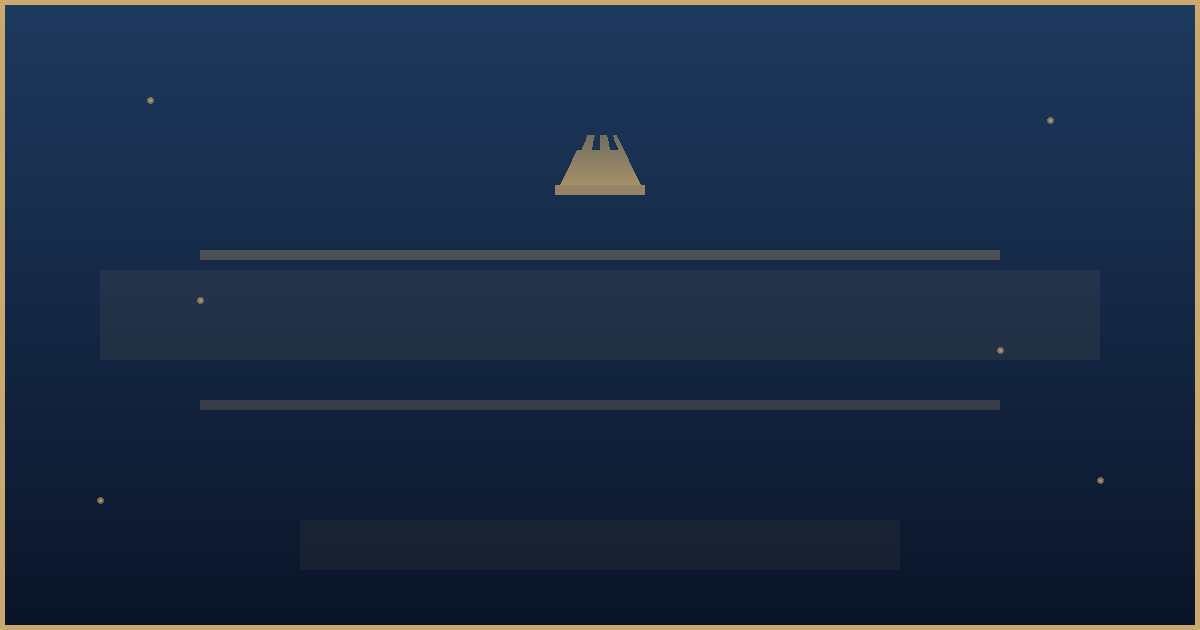
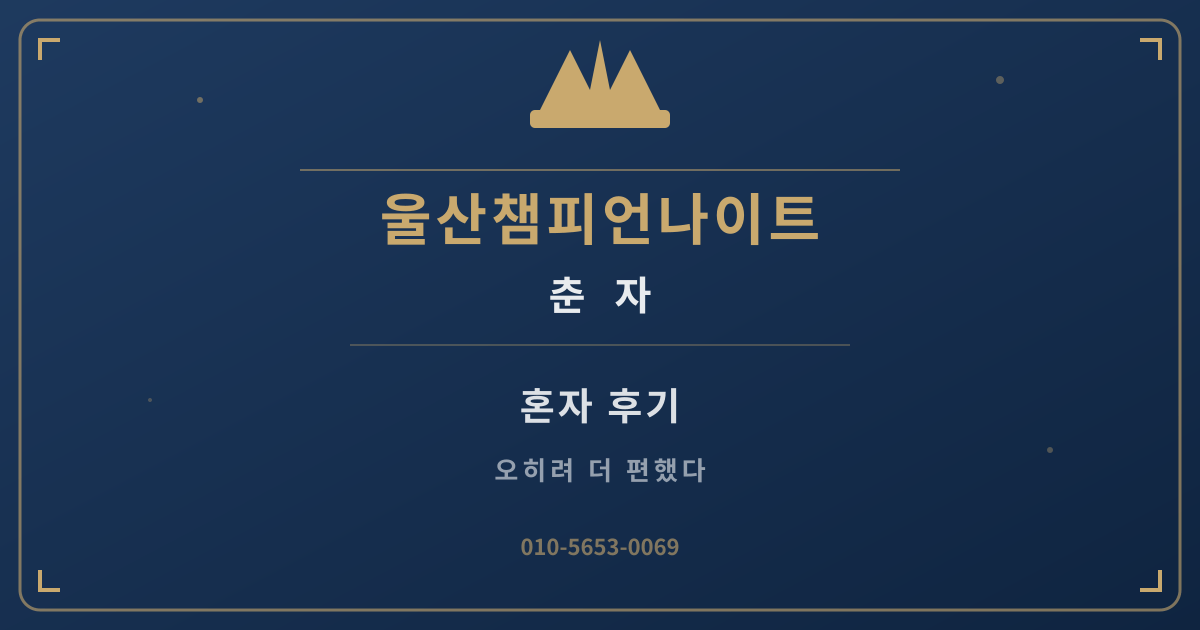
네이버 썸네일 강화: 울산챔피언나이트 춘자 OG 이미지 + 메타태그 전면 추가
- OG 이미지 11개 새로 생성 (1200x630, 한글 텍스트 선명)
- og:image:width/height/type/alt 추가 (네이버 필수)
- twitter:card summary_large_image + twitter:image 추가
- og:site_name, og:locale, link rel=image_src 추가
- JSON-LD image를 ImageObject로 확장
- sitemap에 이미지 사이트맵 추가 + lastmod 갱신

Changed region(s): [[0.0, 0.0, 1.0, 1.0], [0.3083, 0.5429, 0.7092, 0.573]]

diff --git a/index.html b/index.html
@@ -8,14 +8,25 @@
 <meta property="og:title" content="울산챔피언나이트 후기 — 겁나서 못 가겠다고? 읽고 판단해">
 <meta property="og:description" content="직접 가본 놈들만 썼다. 첫 방문, 혼자, 커플, 40대 후기까지 10편. 읽고 니가 판단해.">
 <meta property="og:image" content="https://ulsan2.pages.dev/og-images/main.png">
+<meta property="og:image:width" content="1200">
+<meta property="og:image:height" content="630">
+<meta property="og:image:type" content="image/png">
+<meta property="og:image:alt" content="울산챔피언나이트 춘자 - 울산 대표 나이트클럽">
 <meta property="og:type" content="website">
 <meta property="og:url" content="https://ulsan2.pages.dev/">
+<meta property="og:site_name" content="울산챔피언나이트 춘자">
+<meta property="og:locale" content="ko_KR">
+<meta name="twitter:card" content="summary_large_image">
+<meta name="twitter:title" content="울산챔피언나이트 춘자 — 겁나서 못 가겠다고? 읽고 판단해">
+<meta name="twitter:description" content="직접 가본 놈들만 썼다. 첫 방문, 혼자, 커플, 40대 후기까지 10편. 읽고 니가 판단해.">
+<meta name="twitter:image" content="https://ulsan2.pages.dev/og-images/main.png">
 <link rel="canonical" href="https://ulsan2.pages.dev/">
+<link rel="image_src" href="https://ulsan2.pages.dev/og-images/main.png">
 <meta name="naver-site-verification" content="9cfec1c56761bf02cd39fa5e2de5cb58af4b5cfc" />
 <meta name="google-site-verification" content="HJjm7MRxykCQ7d_9L7glaTeeaWrmJIzAKY0BcNcfm88" />
 <link rel="icon" href="/favicon.svg" type="image/svg+xml">
 <script type="application/ld+json">
-{"@context":"https://schema.org","@type":"NightClub","name":"울산챔피언나이트","description":"직접 가본 놈들만 썼다. 첫 방문, 혼자, 커플, 40대 후기까지 10편. 읽고 니가 판단해.","url":"https://ulsan2.pages.dev","telephone":"010-5653-0069","address":{"@type":"PostalAddress","addressLocality":"울산","addressRegion":"울산광역시","addressCountry":"KR"},"image":"https://ulsan2.pages.dev/og-images/main.png","sameAs":["https://bamkey.com"]}
+{"@context":"https://schema.org","@type":"NightClub","name":"울산챔피언나이트 춘자","alternateName":"울산챔피언나이트","description":"직접 가본 놈들만 썼다. 첫 방문, 혼자, 커플, 40대 후기까지 10편. 읽고 니가 판단해.","url":"https://ulsan2.pages.dev","telephone":"010-5653-0069","address":{"@type":"PostalAddress","addressLocality":"울산","addressRegion":"울산광역시","addressCountry":"KR"},"image":{"@type":"ImageObject","url":"https://ulsan2.pages.dev/og-images/main.png","width":1200,"height":630,"caption":"울산챔피언나이트 춘자 - 울산 대표 나이트클럽"},"sameAs":["https://bamkey.com"]}
 </script>
 <style>
 *{margin:0;padding:0;box-sizing:border-box}

diff --git a/blog/weekend/index.html b/blog/weekend/index.html
@@ -8,9 +8,20 @@
 <meta property="og:title" content="울산챔피언나이트 금토 비교 — 같은 곳인데 분위기가 왜 다르냐면">
 <meta property="og:description" content="금요일은 하이볼 마시며 녹는 분위기. 토요일은 땀 흘리며 미치는 밤. 둘 다 가봤으니까 비교한다.">
 <meta property="og:image" content="https://ulsan2.pages.dev/og-images/weekend.png">
+<meta property="og:image:width" content="1200">
+<meta property="og:image:height" content="630">
+<meta property="og:image:type" content="image/png">
+<meta property="og:image:alt" content="울산챔피언나이트 춘자 - weekend 후기">
 <meta property="og:type" content="article">
 <meta property="og:url" content="https://ulsan2.pages.dev/blog/weekend/">
+<meta property="og:site_name" content="울산챔피언나이트 춘자">
+<meta property="og:locale" content="ko_KR">
+<meta name="twitter:card" content="summary_large_image">
+<meta name="twitter:title" content="울산챔피언나이트 금토 비교 — 같은 곳인데 분위기가 왜 다르냐면">
+<meta name="twitter:description" content="금요일은 하이볼 마시며 녹는 분위기. 토요일은 땀 흘리며 미치는 밤. 둘 다 가봤으니까 비교한다.">
+<meta name="twitter:image" content="https://ulsan2.pages.dev/og-images/weekend.png">
 <link rel="canonical" href="https://ulsan2.pages.dev/blog/weekend/">
+<link rel="image_src" href="https://ulsan2.pages.dev/og-images/weekend.png">
 <meta name="naver-site-verification" content="naver-verification-code">
 <meta name="google-site-verification" content="HJjm7MRxykCQ7d_9L7glaTeeaWrmJIzAKY0BcNcfm88" />
 <link rel="icon" href="/favicon.svg" type="image/svg+xml">

diff --git a/blog/first-time/index.html b/blog/first-time/index.html
@@ -8,9 +8,20 @@
 <meta property="og:title" content="울산챔피언나이트 첫 방문 후기 — 문 열고 3초 만에 알았다">
 <meta property="og:description" content="긴장 반 기대 반. 나올 때 &quot;다음 주에 또 오자&quot;고 했다. 처음이라 겁나면 이거 먼저 읽어.">
 <meta property="og:image" content="https://ulsan2.pages.dev/og-images/first-time.png">
+<meta property="og:image:width" content="1200">
+<meta property="og:image:height" content="630">
+<meta property="og:image:type" content="image/png">
+<meta property="og:image:alt" content="울산챔피언나이트 춘자 - first-time 후기">
 <meta property="og:type" content="article">
 <meta property="og:url" content="https://ulsan2.pages.dev/blog/first-time/">
+<meta property="og:site_name" content="울산챔피언나이트 춘자">
+<meta property="og:locale" content="ko_KR">
+<meta name="twitter:card" content="summary_large_image">
+<meta name="twitter:title" content="울산챔피언나이트 첫 방문 후기 — 문 열고 3초 만에 알았다">
+<meta name="twitter:description" content="긴장 반 기대 반. 나올 때 &quot;다음 주에 또 오자&quot;고 했다. 처음이라 겁나면 이거 먼저 읽어.">
+<meta name="twitter:image" content="https://ulsan2.pages.dev/og-images/first-time.png">
 <link rel="canonical" href="https://ulsan2.pages.dev/blog/first-time/">
+<link rel="image_src" href="https://ulsan2.pages.dev/og-images/first-time.png">
 <meta name="naver-site-verification" content="naver-verification-code">
 <meta name="google-site-verification" content="HJjm7MRxykCQ7d_9L7glaTeeaWrmJIzAKY0BcNcfm88" />
 <link rel="icon" href="/favicon.svg" type="image/svg+xml">

diff --git a/blog/summer/index.html b/blog/summer/index.html
@@ -8,9 +8,20 @@
 <meta property="og:title" content="여름밤 울산챔피언나이트 — 바다에서 댄스플로어까지 하루 코스">
 <meta property="og:description" content="낮에 바다, 저녁에 회, 밤에 댄스플로어. 에어컨 소름에 모히토 한 모금. 여름이라 가능한 코스.">
 <meta property="og:image" content="https://ulsan2.pages.dev/og-images/summer.png">
+<meta property="og:image:width" content="1200">
+<meta property="og:image:height" content="630">
+<meta property="og:image:type" content="image/png">
+<meta property="og:image:alt" content="울산챔피언나이트 춘자 - summer 후기">
 <meta property="og:type" content="article">
 <meta property="og:url" content="https://ulsan2.pages.dev/blog/summer/">
+<meta property="og:site_name" content="울산챔피언나이트 춘자">
+<meta property="og:locale" content="ko_KR">
+<meta name="twitter:card" content="summary_large_image">
+<meta name="twitter:title" content="여름밤 울산챔피언나이트 — 바다에서 댄스플로어까지 하루 코스">
+<meta name="twitter:description" content="낮에 바다, 저녁에 회, 밤에 댄스플로어. 에어컨 소름에 모히토 한 모금. 여름이라 가능한 코스.">
+<meta name="twitter:image" content="https://ulsan2.pages.dev/og-images/summer.png">
 <link rel="canonical" href="https://ulsan2.pages.dev/blog/summer/">
+<link rel="image_src" href="https://ulsan2.pages.dev/og-images/summer.png">
 <meta name="naver-site-verification" content="naver-verification-code">
 <meta name="google-site-verification" content="HJjm7MRxykCQ7d_9L7glaTeeaWrmJIzAKY0BcNcfm88" />
 <link rel="icon" href="/favicon.svg" type="image/svg+xml">

diff --git a/blog/couple/index.html b/blog/couple/index.html
@@ -8,9 +8,20 @@
 <meta property="og:title" content="여자친구랑 울산챔피언나이트 — &quot;또 가자&quot;고 했다">
 <meta property="og:description" content="&quot;거기 가자&quot; 했을 때 여친 3초 침묵. 근데 나와서는 &quot;역대급 데이트&quot;라고 했다.">
 <meta property="og:image" content="https://ulsan2.pages.dev/og-images/couple.png">
+<meta property="og:image:width" content="1200">
+<meta property="og:image:height" content="630">
+<meta property="og:image:type" content="image/png">
+<meta property="og:image:alt" content="울산챔피언나이트 춘자 - couple 후기">
 <meta property="og:type" content="article">
 <meta property="og:url" content="https://ulsan2.pages.dev/blog/couple/">
+<meta property="og:site_name" content="울산챔피언나이트 춘자">
+<meta property="og:locale" content="ko_KR">
+<meta name="twitter:card" content="summary_large_image">
+<meta name="twitter:title" content="여자친구랑 울산챔피언나이트 — &quot;또 가자&quot;고 했다">
+<meta name="twitter:description" content="&quot;거기 가자&quot; 했을 때 여친 3초 침묵. 근데 나와서는 &quot;역대급 데이트&quot;라고 했다.">
+<meta name="twitter:image" content="https://ulsan2.pages.dev/og-images/couple.png">
 <link rel="canonical" href="https://ulsan2.pages.dev/blog/couple/">
+<link rel="image_src" href="https://ulsan2.pages.dev/og-images/couple.png">
 <meta name="naver-site-verification" content="naver-verification-code">
 <meta name="google-site-verification" content="HJjm7MRxykCQ7d_9L7glaTeeaWrmJIzAKY0BcNcfm88" />
 <link rel="icon" href="/favicon.svg" type="image/svg+xml">

diff --git a/blog/event/index.html b/blog/event/index.html
@@ -8,9 +8,20 @@
 <meta property="og:title" content="울산챔피언나이트 이벤트 날 — 조명 꺼지고 5초 후 소름">
 <meta property="og:description" content="자주 가는 나도 입 벌어졌다. 레드카펫, 게스트 DJ, 천장에서 풍선 비. 서울 안 부러웠다.">
 <meta property="og:image" content="https://ulsan2.pages.dev/og-images/event.png">
+<meta property="og:image:width" content="1200">
+<meta property="og:image:height" content="630">
+<meta property="og:image:type" content="image/png">
+<meta property="og:image:alt" content="울산챔피언나이트 춘자 - event 후기">
 <meta property="og:type" content="article">
 <meta property="og:url" content="https://ulsan2.pages.dev/blog/event/">
+<meta property="og:site_name" content="울산챔피언나이트 춘자">
+<meta property="og:locale" content="ko_KR">
+<meta name="twitter:card" content="summary_large_image">
+<meta name="twitter:title" content="울산챔피언나이트 이벤트 날 — 조명 꺼지고 5초 후 소름">
+<meta name="twitter:description" content="자주 가는 나도 입 벌어졌다. 레드카펫, 게스트 DJ, 천장에서 풍선 비. 서울 안 부러웠다.">
+<meta name="twitter:image" content="https://ulsan2.pages.dev/og-images/event.png">
 <link rel="canonical" href="https://ulsan2.pages.dev/blog/event/">
+<link rel="image_src" href="https://ulsan2.pages.dev/og-images/event.png">
 <meta name="naver-site-verification" content="naver-verification-code">
 <meta name="google-site-verification" content="HJjm7MRxykCQ7d_9L7glaTeeaWrmJIzAKY0BcNcfm88" />
 <link rel="icon" href="/favicon.svg" type="image/svg+xml">

diff --git a/blog/food/index.html b/blog/food/index.html
@@ -8,9 +8,20 @@
 <meta property="og:title" content="울산챔피언나이트 맛집 코스 — 삼겹살에서 새벽 국밥까지">
 <meta property="og:description" content="빈속에 술 마시면 20분 리타이어. 고기로 코팅하고 놀고 새벽 국밥. 동선까지 다 짰다.">
 <meta property="og:image" content="https://ulsan2.pages.dev/og-images/food.png">
+<meta property="og:image:width" content="1200">
+<meta property="og:image:height" content="630">
+<meta property="og:image:type" content="image/png">
+<meta property="og:image:alt" content="울산챔피언나이트 춘자 - food 후기">
 <meta property="og:type" content="article">
 <meta property="og:url" content="https://ulsan2.pages.dev/blog/food/">
+<meta property="og:site_name" content="울산챔피언나이트 춘자">
+<meta property="og:locale" content="ko_KR">
+<meta name="twitter:card" content="summary_large_image">
+<meta name="twitter:title" content="울산챔피언나이트 맛집 코스 — 삼겹살에서 새벽 국밥까지">
+<meta name="twitter:description" content="빈속에 술 마시면 20분 리타이어. 고기로 코팅하고 놀고 새벽 국밥. 동선까지 다 짰다.">
+<meta name="twitter:image" content="https://ulsan2.pages.dev/og-images/food.png">
 <link rel="canonical" href="https://ulsan2.pages.dev/blog/food/">
+<link rel="image_src" href="https://ulsan2.pages.dev/og-images/food.png">
 <meta name="naver-site-verification" content="naver-verification-code">
 <meta name="google-site-verification" content="HJjm7MRxykCQ7d_9L7glaTeeaWrmJIzAKY0BcNcfm88" />
 <link rel="icon" href="/favicon.svg" type="image/svg+xml">

diff --git a/blog/over40/index.html b/blog/over40/index.html
@@ -8,9 +8,20 @@
 <meta property="og:title" content="40대 울산챔피언나이트 후기 — 20대보다 잘 놀았다">
 <meta property="og:description" content="&quot;이 나이에 나이트?&quot; 했는데 40대가 오히려 여유롭게 즐기더라. 무릎만 좀 아팠다.">
 <meta property="og:image" content="https://ulsan2.pages.dev/og-images/over40.png">
+<meta property="og:image:width" content="1200">
+<meta property="og:image:height" content="630">
+<meta property="og:image:type" content="image/png">
+<meta property="og:image:alt" content="울산챔피언나이트 춘자 - over40 후기">
 <meta property="og:type" content="article">
 <meta property="og:url" content="https://ulsan2.pages.dev/blog/over40/">
+<meta property="og:site_name" content="울산챔피언나이트 춘자">
+<meta property="og:locale" content="ko_KR">
+<meta name="twitter:card" content="summary_large_image">
+<meta name="twitter:title" content="40대 울산챔피언나이트 후기 — 20대보다 잘 놀았다">
+<meta name="twitter:description" content="&quot;이 나이에 나이트?&quot; 했는데 40대가 오히려 여유롭게 즐기더라. 무릎만 좀 아팠다.">
+<meta name="twitter:image" content="https://ulsan2.pages.dev/og-images/over40.png">
 <link rel="canonical" href="https://ulsan2.pages.dev/blog/over40/">
+<link rel="image_src" href="https://ulsan2.pages.dev/og-images/over40.png">
 <meta name="naver-site-verification" content="naver-verification-code">
 <meta name="google-site-verification" content="HJjm7MRxykCQ7d_9L7glaTeeaWrmJIzAKY0BcNcfm88" />
 <link rel="icon" href="/favicon.svg" type="image/svg+xml">

diff --git a/blog/safety/index.html b/blog/safety/index.html
@@ -8,9 +8,20 @@
 <meta property="og:title" content="울산챔피언나이트 안전 가이드 — 실수 다 해본 놈이 쓴다">
 <meta property="og:description" content="핸드폰 잃어버리고 택시비 없어서 걸어가고 필름 끊기고. 다 겪어봤으니까 쓴다.">
 <meta property="og:image" content="https://ulsan2.pages.dev/og-images/safety.png">
+<meta property="og:image:width" content="1200">
+<meta property="og:image:height" content="630">
+<meta property="og:image:type" content="image/png">
+<meta property="og:image:alt" content="울산챔피언나이트 춘자 - safety 후기">
 <meta property="og:type" content="article">
 <meta property="og:url" content="https://ulsan2.pages.dev/blog/safety/">
+<meta property="og:site_name" content="울산챔피언나이트 춘자">
+<meta property="og:locale" content="ko_KR">
+<meta name="twitter:card" content="summary_large_image">
+<meta name="twitter:title" content="울산챔피언나이트 안전 가이드 — 실수 다 해본 놈이 쓴다">
+<meta name="twitter:description" content="핸드폰 잃어버리고 택시비 없어서 걸어가고 필름 끊기고. 다 겪어봤으니까 쓴다.">
+<meta name="twitter:image" content="https://ulsan2.pages.dev/og-images/safety.png">
 <link rel="canonical" href="https://ulsan2.pages.dev/blog/safety/">
+<link rel="image_src" href="https://ulsan2.pages.dev/og-images/safety.png">
 <meta name="naver-site-verification" content="naver-verification-code">
 <meta name="google-site-verification" content="HJjm7MRxykCQ7d_9L7glaTeeaWrmJIzAKY0BcNcfm88" />
 <link rel="icon" href="/favicon.svg" type="image/svg+xml">

diff --git a/blog/alone/index.html b/blog/alone/index.html
@@ -8,9 +8,20 @@
 <meta property="og:title" content="울산챔피언나이트 혼자 후기 — 오히려 더 편했다">
 <meta property="og:description" content="현관문 앞에서 10분 멈췄다. 혼자 나이트가 말이 돼? 근데 그게 오히려 더 자유로웠다.">
 <meta property="og:image" content="https://ulsan2.pages.dev/og-images/alone.png">
+<meta property="og:image:width" content="1200">
+<meta property="og:image:height" content="630">
+<meta property="og:image:type" content="image/png">
+<meta property="og:image:alt" content="울산챔피언나이트 춘자 - alone 후기">
 <meta property="og:type" content="article">
 <meta property="og:url" content="https://ulsan2.pages.dev/blog/alone/">
+<meta property="og:site_name" content="울산챔피언나이트 춘자">
+<meta property="og:locale" content="ko_KR">
+<meta name="twitter:card" content="summary_large_image">
+<meta name="twitter:title" content="울산챔피언나이트 혼자 후기 — 오히려 더 편했다">
+<meta name="twitter:description" content="현관문 앞에서 10분 멈췄다. 혼자 나이트가 말이 돼? 근데 그게 오히려 더 자유로웠다.">
+<meta name="twitter:image" content="https://ulsan2.pages.dev/og-images/alone.png">
 <link rel="canonical" href="https://ulsan2.pages.dev/blog/alone/">
+<link rel="image_src" href="https://ulsan2.pages.dev/og-images/alone.png">
 <meta name="naver-site-verification" content="naver-verification-code">
 <meta name="google-site-verification" content="HJjm7MRxykCQ7d_9L7glaTeeaWrmJIzAKY0BcNcfm88" />
 <link rel="icon" href="/favicon.svg" type="image/svg+xml">

diff --git a/blog/vs/index.html b/blog/vs/index.html
@@ -8,9 +8,20 @@
 <meta property="og:title" content="울산챔피언나이트 포함 3곳 비교 — 3년 다닌 놈이 하나만 고른 이유">
 <meta property="og:description" content="A, B, C 전부 다녀봤다. 음악, 분위기, 사운드까지 비교한 결론은 딱 하나.">
 <meta property="og:image" content="https://ulsan2.pages.dev/og-images/vs.png">
+<meta property="og:image:width" content="1200">
+<meta property="og:image:height" content="630">
+<meta property="og:image:type" content="image/png">
+<meta property="og:image:alt" content="울산챔피언나이트 춘자 - vs 후기">
 <meta property="og:type" content="article">
 <meta property="og:url" content="https://ulsan2.pages.dev/blog/vs/">
+<meta property="og:site_name" content="울산챔피언나이트 춘자">
+<meta property="og:locale" content="ko_KR">
+<meta name="twitter:card" content="summary_large_image">
+<meta name="twitter:title" content="울산챔피언나이트 포함 3곳 비교 — 3년 다닌 놈이 하나만 고른 이유">
+<meta name="twitter:description" content="A, B, C 전부 다녀봤다. 음악, 분위기, 사운드까지 비교한 결론은 딱 하나.">
+<meta name="twitter:image" content="https://ulsan2.pages.dev/og-images/vs.png">
 <link rel="canonical" href="https://ulsan2.pages.dev/blog/vs/">
+<link rel="image_src" href="https://ulsan2.pages.dev/og-images/vs.png">
 <meta name="naver-site-verification" content="naver-verification-code">
 <meta name="google-site-verification" content="HJjm7MRxykCQ7d_9L7glaTeeaWrmJIzAKY0BcNcfm88" />
 <link rel="icon" href="/favicon.svg" type="image/svg+xml">
